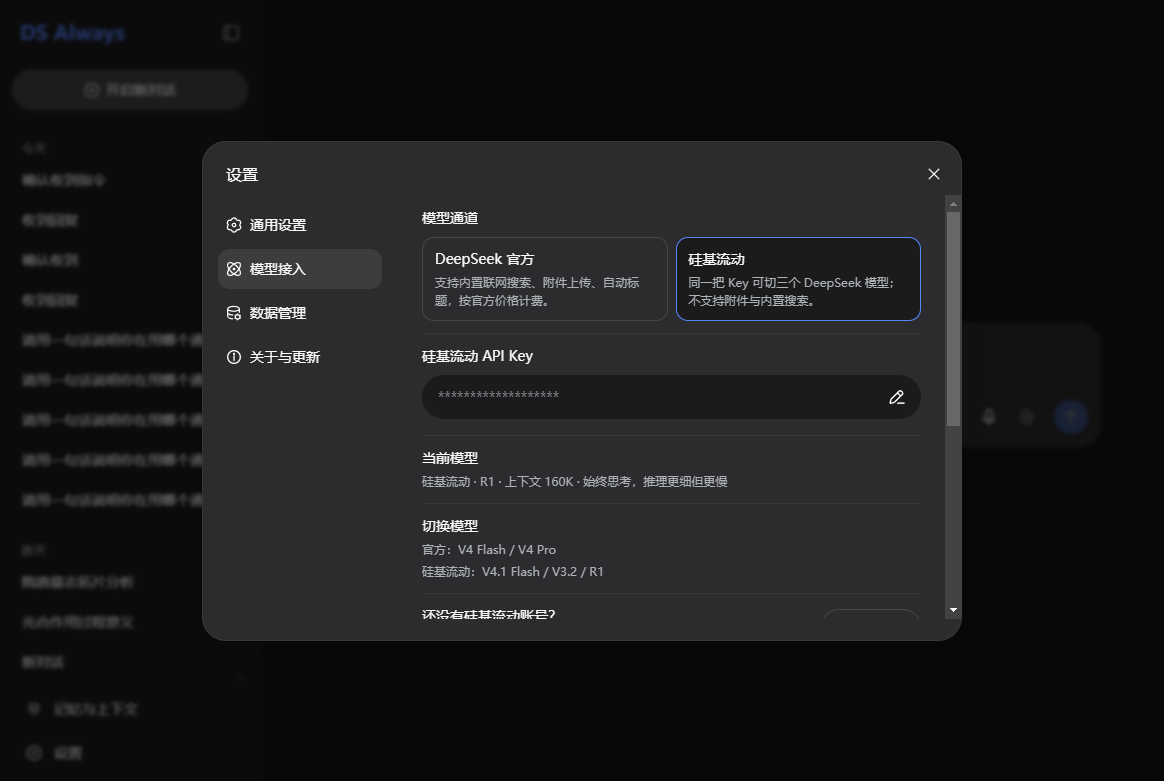
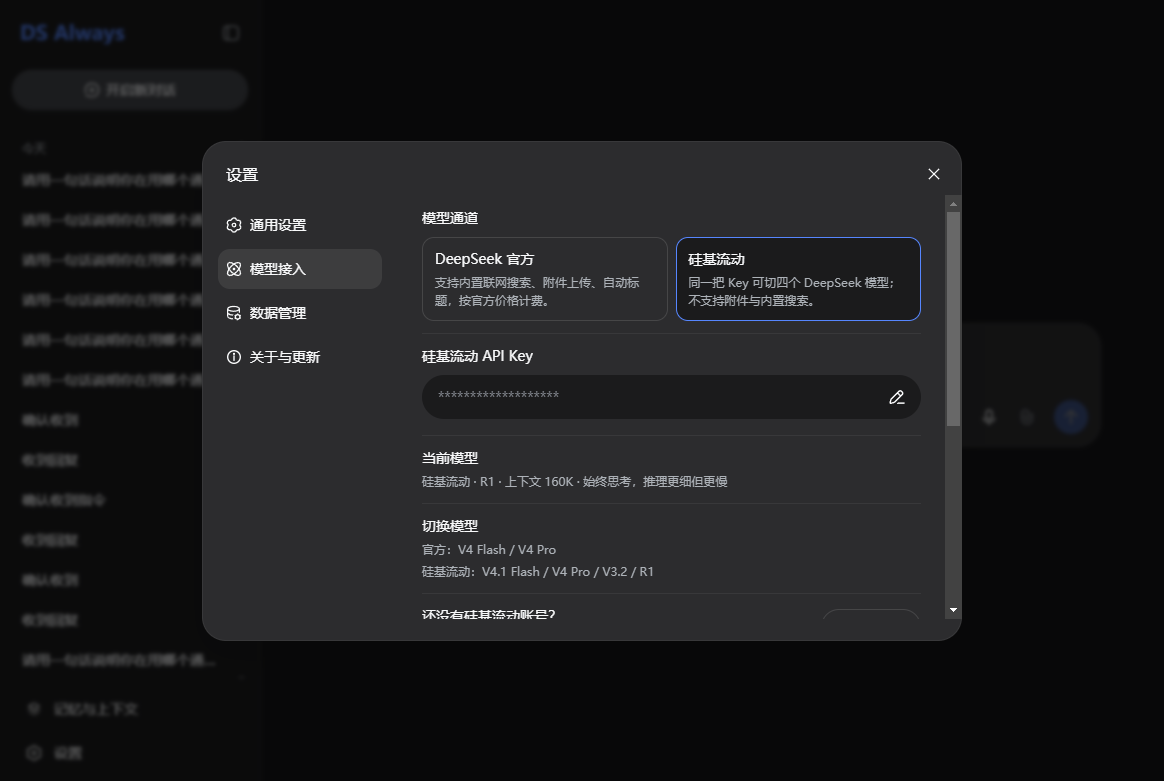
docs: 补 1.4.0 验收记录，截图脚本还原用户配置

diff --git a/README.dsalways.md b/README.dsalways.md
@@ -10,7 +10,7 @@
 | --- | --- |
 | 本地路径 | `C:\git\dsalways` |
 | 源码仓库 | `kayz/dsalways`（`origin`，**PUBLIC**，2026-11-18 起开源），上游为 `upstream` |
-| 当前版本 | 1.3.0 |
+| 当前版本 | 1.4.0 |
 | 平台 | Windows（NSIS 安装版 / 免安装版）、macOS（dmg / zip，arm64 + x64） |
 | 更新源 | GitHub Release，公开产物仓库 `kayz/dsalways-releases`，零令牌 |
 
@@ -181,7 +181,7 @@ gh release edit vX.Y.Z -R kayz/dsalways-releases --draft=false --latest
 
 免安装版（`PORTABLE_EXECUTABLE_DIR` 存在时）会被识别出来并禁用更新——它没有固定安装位置，`autoUpdater` 换不了自己。
 
-## 模型接入：两个通道，五个模型
+## 模型接入：两个通道，六个模型
 
 界面里是「设置 → 模型接入」：
 
@@ -199,13 +199,14 @@ gh release edit vX.Y.Z -R kayz/dsalways-releases --draft=false --latest
 | `deepseek-flash` | 1M（1048576） | 可开关 | 默认，速度快、价格低 |
 | `deepseek-v4-pro` | 1M（1048576） | 可开关 | 旗舰推理，约 3 倍价格、并发更低 |
 
-硅基流动只开放三个模型（刻意收紧，避免用户在几十个模型里选错）：
+硅基流动只开放四个模型（刻意收紧，避免用户在九十多个模型里选错），四个都已用真实 Key 实测 HTTP 200：
 
 | 模型 | 上下文 | 思考 | 说明 |
 | --- | --- | --- | --- |
-| `deepseek-ai/DeepSeek-V4.1-Flash` | 1M（1048576） | 不支持开关 | 默认，最便宜最快 |
+| `deepseek-ai/DeepSeek-V4.1-Flash` | 1M（1048576） | 不支持开关（默认可能带少量思考） | 默认，最便宜最快 |
+| `deepseek-ai/DeepSeek-V4-Pro` | 1M（1048576） | `enable_thinking` 可开关 | 旗舰推理，¥12/¥24 每百万 token，四个里最贵 |
 | `deepseek-ai/DeepSeek-V3.2` | 164K（163840） | `enable_thinking` 可开关 | 平衡 |
-| `deepseek-ai/DeepSeek-R1` | 164K（163840） | 始终思考 | 推理细但慢 |
+| `deepseek-ai/DeepSeek-R1` | 164K（163840） | 始终思考 | 推理细但慢；传 `enable_thinking=false` 无效，会把推理写进正文 |
 
 选择的模型记在 localStorage（`chat-demo:deepseek-model` / `chat-demo:siliconflow-model`），
 每条回复也把自己的 `model` 写进消息体，所以**重新生成/续写沿用那条回复当时的模型**，
@@ -216,7 +217,7 @@ gh release edit vX.Y.Z -R kayz/dsalways-releases --draft=false --latest
 - OpenAI 的 chunk 流被翻译成内部 `MessageStreamEvent`，上层渲染逻辑完全复用；
 - `reasoning_content` 映射成思考块，`finish_reason` 映射成 `stop_reason`；
 - **R1 按官方建议不加 system**，把指令并进第一条用户消息（`inlineSystem`）；
-- `enable_thinking` 只发给 V3.2，其它模型不传，避免被服务端拒绝；
+- `enable_thinking` 只发给 `thinking === 'switchable'` 的模型（V4 Pro / V3.2），其它模型不传，避免被服务端拒绝；
 - 拿到 `finish_reason` 但没收到 `[DONE]` 也算完整回答，不误判成断流；
 - 历史里的 `latest_reminder` 角色改成用户消息前面的一行「当前信息」，思考块与工具块在转换时丢弃（OpenAI 格式里没有对应位置）；
 - 附件（`file_id`）无法跨通道，硅基流动下附件入口直接禁用。
@@ -253,6 +254,38 @@ gh release edit vX.Y.Z -R kayz/dsalways-releases --draft=false --latest
 **刻意不改的东西**：`latest_reminder` 的历史快照。核查（`store.ts:1113`、`reply.ts:324`）确认它是生成时冻结在消息里的固定字符串，本来就属于可命中的稳定前缀；跨天变化的只有尾部本轮那一条。为不存在的问题去重写历史消息，反而会制造一次全量失效。
 
 **会话档案（设计稿阶段 4）暂缓**：自动生成要额外调一次接口且会改动稳定区，与本轮「先拿命中率基线」冲突；等真实命中率数据出来再评估。
+
+## 1.4.0：硅基流动新增 V4 Pro（实测驱动）
+
+起因是有人怀疑硅基流动的 V3.2 / R1 已不可用。**先实测再改**，结论是四个模型全部可用，V3.2 与 R1 保留。
+
+```bash
+node scripts/probe-sf-models.mjs            # /v1/models + 四模型 × 四参数
+node scripts/probe-sf-models.mjs --list-only # 只看在架模型
+```
+
+2026-11-18 实测（真实 Key，`api.siliconflow.cn`）：`/v1/models` 返回 91 个模型，DeepSeek 系 13 个；四个模型在 plain / `enable_thinking=false` / `enable_thinking=true` / `thinking_budget=4096` 下全部 **HTTP 200**。
+
+| 模型 | plain 行为 | 思考控制 | 定位 |
+| --- | --- | --- | --- |
+| V4.1-Flash | 带少量思考（35 输入 token 里 11 是推理） | `enable_thinking` 有效但界面不给开关 | 最便宜最快，默认 |
+| V4-Pro | 带思考（303 字推理） | `enable_thinking` 有效，界面给开关 | 旗舰，¥12/¥24 |
+| V3.2 | 不思考 | `enable_thinking` 有效，界面给开关 | 平衡 |
+| R1 | 始终思考 | 传 `false` 无效，推理会写进正文且 `finish_reason=length` | 保持 `always`，不给开关 |
+
+接入改动：`SILICONFLOW_MODELS` 增加 `deepseek-ai/DeepSeek-V4-Pro`（1M、`switchable`），下拉由 5 项变 6 项。`siliconflow.ts` 的 `enable_thinking` 判定本来就是按 `thinking === 'switchable'`，所以新模型自动生效，无需改请求层。
+
+验收：`verify-siliconflow.mjs` 从 15 项扩到 **17 项**，新增「模型下拉共 6 项」「下拉含硅基流动 · V4 Pro」，全部通过。
+
+### 验收脚本污染用户配置的坑（已修）
+
+`verify-siliconflow.mjs` 原本会把 `chat-demo:siliconflow-origin` 设成本地 mock 的 `http://127.0.0.1:8899/v1`、把 Key 写成 `sk-mock`、把窗口压到 8000、保留轮次改成 2，**跑完不还原，还强杀进程**。后果：验收之后应用一直连不存在的本地服务，任何模型都报「网络错误」，用户重填 Key 也存不进去（保存前的连通检测直接失败）。
+
+三个要点：
+
+1. **收尾必须还原并等待落盘**：先 `localStorage` 写回原配置，`sleep(1200)`，再 `Browser.close` 优雅退出。`Stop-Process -Force` 会让刚删的键丢失，下次启动读回旧值——这是「删了又回来」的真正原因。
+2. **备份范围要覆盖所有被改的键**：key / context-limit / keep-recent / siliconflow-model / siliconflow-origin。
+3. 排查工具：`scripts/inspect-app-state.mjs`（只读看状态，`--clear-origin` 修改道、`--restore-defaults` 还原窗口与模型）、`scripts/diagnose-sf-net.mjs`（CDP 抓 `net::ERR_*` 与响应来源 IP，用来区分「真网络问题」和「请求被改道」）。
 
 ## 技术要点
 
@@ -317,7 +350,7 @@ DSALWAYS_EXE='release\win-unpacked\DSAlways.exe' \
 
 功能链路（导入 → 连续对话 → 压缩 → 记忆）在浏览器构建里用拦截的 mock 接口跑通过：导入一个 v3 格式 ZIP 后连聊 3 轮，压缩请求发了 2 次、记忆抽取发了 2 次，面板显示「原文 2 轮 / 记忆 3 条 / 摘要 67 / 已压缩 4 轮」。
 
-自动更新整条链路用真实 Release 验收过（1.0.6 → 1.0.7 → 1.0.8 → 1.0.9 → 1.0.10 → 1.0.11 → 1.1.0 → 1.1.1 → 1.2.0 → 1.3.0，全部通过界面点击，不调内部接口，安装包里没有任何令牌）：
+自动更新整条链路用真实 Release 验收过（1.0.6 → 1.0.7 → 1.0.8 → 1.0.9 → 1.0.10 → 1.0.11 → 1.1.0 → 1.1.1 → 1.2.0 → 1.3.0 → 1.4.0，全部通过界面点击，不调内部接口，安装包里没有任何令牌）：
 
 1. 打开 设置 → 关于与更新 → 显示「本机版本 1.0.x / 发现新版本 1.0.y」（启动时已自动查过）；
 2. 点「下载更新」→ 进度条走完 → 「新版本已下载，重启后安装」，按钮变为可点；
